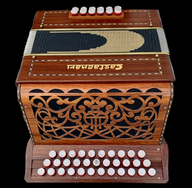
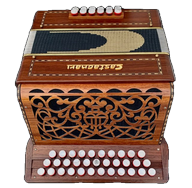
Benny Deploy → v5.7.1 - Fix label inversion bugs (normalization, crash)

diff --git a/benny-visualizer.html b/benny-visualizer.html
@@ -3,7 +3,7 @@
 <head>
 <meta charset="UTF-8">
 <meta name="viewport" content="width=device-width, initial-scale=1.0, user-scalable=no">
-<title>Castagnari Benny Accordion v5.7.0</title>
+<title>Castagnari Benny Accordion v5.7.1</title>
 <meta name="version" content="5.4">
 <meta name="description" content="Interactive learning tool for Castagnari Benny C/G (3-row, Heim tuning) – chords, scales, and bellows technique">
 <meta name="theme-color" content="#0a84ff">
@@ -362,7 +362,7 @@ header .sub { font-size:0.74em; color:var(--txt2); letter-spacing:1.2px; margin-
 <div class="container">
 
 <header>
-    <h1><img src="assets/icon-192x192.png" alt="" style="width:40px; height:40px; vertical-align:middle; margin-right:8px; border-radius:8px;">Castagnari Benny Accordion <span style="font-size:0.5em; color:#999; font-weight:300; margin-left:8px;">v5.7.0</span></h1>
+    <h1><img src="assets/icon-192x192.png" alt="" style="width:40px; height:40px; vertical-align:middle; margin-right:8px; border-radius:8px;">Castagnari Benny Accordion <span style="font-size:0.5em; color:#999; font-weight:300; margin-left:8px;">v5.7.1</span></h1>
     <p class="sub">C/G · 3-reihig · Heim · Spieler-Perspektive</p>
 </header>
 
@@ -481,7 +481,6 @@ header .sub { font-size:0.74em; color:var(--txt2); letter-spacing:1.2px; margin-
                             <option value="warm">Akkordeon-like</option>
                             <option value="pure">Rein (Sinus)</option>
                             <option value="bright">Hell</option>
-                            <option value="soft">Weich</option>
                         </select>
 
                         <label>Tempo:</label>
@@ -1076,7 +1075,12 @@ function bassToRoot(s){
 function getBennyNotes(direction) {
     const notes = new Set();
     Object.values(layout[direction].treble).forEach(row => {
-        row.forEach(btn => notes.add(pureName(btn)));
+        row.forEach(btn => {
+            const raw = pureName(btn);
+            // Normalize to uppercase for comparison with chordNotes (from SEMITONE_TO_NOTE)
+            const normalized = raw.charAt(0).toUpperCase() + raw.slice(1);
+            notes.add(normalized);
+        });
     });
     return notes;
 }
@@ -1202,9 +1206,13 @@ function applyStyles() {
     }
     
     // MODAL HIGHLIGHTING: Dim non-scale notes, highlight scale notes
+    // NOTE: treble buttons are now lowercase (c,g,bb...) but chordNotes/rootSet
+    // use uppercase (C,G,Bb...) from SEMITONE_TO_NOTE - normalize for comparison!
     document.querySelectorAll('.note-button').forEach(btn => {
         const note = btn.dataset.note;
-        const name = pureName(note);
+        const rawName = pureName(note);
+        // Normalize: uppercase first letter, keep accidentals (c→C, bb→Bb, f#→F#)
+        const name = rawName.charAt(0).toUpperCase() + rawName.slice(1);
         
         btn.classList.remove('active','root','scale-tone','dimmed');
         
@@ -1248,9 +1256,9 @@ function onBassClick(note) {
     const isChord = isUpper;   // UPPERCASE = chord, lowercase = single note
     
     // Groß (Akkord) → zeige Dur-Triade im Diskant
-    // Klein (Einzelton) → zeige nur Grundton im Diskant (leere Formel)
-    chordType = isUpper ? '' : null;
-    if(!isUpper) scaleType = null;
+    // Klein (Einzelton) → zeige nur Grundton (kein Akkord, kein Scale)
+    chordType = isUpper ? '' : '';  // immer '' - Dur als Default-Anzeige
+    scaleType = null;
     scaleType = null;
     
     // Update state and visuals WITHOUT auto-playing the treble chord

diff --git a/index.html b/index.html
@@ -3,7 +3,7 @@
 <head>
 <meta charset="UTF-8">
 <meta name="viewport" content="width=device-width, initial-scale=1.0, user-scalable=no">
-<title>Castagnari Benny Accordion v5.7.0</title>
+<title>Castagnari Benny Accordion v5.7.1</title>
 <meta name="version" content="5.4">
 <meta name="description" content="Interactive learning tool for Castagnari Benny C/G (3-row, Heim tuning) – chords, scales, and bellows technique">
 <meta name="theme-color" content="#0a84ff">
@@ -362,7 +362,7 @@ header .sub { font-size:0.74em; color:var(--txt2); letter-spacing:1.2px; margin-
 <div class="container">
 
 <header>
-    <h1><img src="assets/icon-192x192.png" alt="" style="width:40px; height:40px; vertical-align:middle; margin-right:8px; border-radius:8px;">Castagnari Benny Accordion <span style="font-size:0.5em; color:#999; font-weight:300; margin-left:8px;">v5.7.0</span></h1>
+    <h1><img src="assets/icon-192x192.png" alt="" style="width:40px; height:40px; vertical-align:middle; margin-right:8px; border-radius:8px;">Castagnari Benny Accordion <span style="font-size:0.5em; color:#999; font-weight:300; margin-left:8px;">v5.7.1</span></h1>
     <p class="sub">C/G · 3-reihig · Heim · Spieler-Perspektive</p>
 </header>
 
@@ -481,7 +481,6 @@ header .sub { font-size:0.74em; color:var(--txt2); letter-spacing:1.2px; margin-
                             <option value="warm">Akkordeon-like</option>
                             <option value="pure">Rein (Sinus)</option>
                             <option value="bright">Hell</option>
-                            <option value="soft">Weich</option>
                         </select>
 
                         <label>Tempo:</label>
@@ -1076,7 +1075,12 @@ function bassToRoot(s){
 function getBennyNotes(direction) {
     const notes = new Set();
     Object.values(layout[direction].treble).forEach(row => {
-        row.forEach(btn => notes.add(pureName(btn)));
+        row.forEach(btn => {
+            const raw = pureName(btn);
+            // Normalize to uppercase for comparison with chordNotes (from SEMITONE_TO_NOTE)
+            const normalized = raw.charAt(0).toUpperCase() + raw.slice(1);
+            notes.add(normalized);
+        });
     });
     return notes;
 }
@@ -1202,9 +1206,13 @@ function applyStyles() {
     }
     
     // MODAL HIGHLIGHTING: Dim non-scale notes, highlight scale notes
+    // NOTE: treble buttons are now lowercase (c,g,bb...) but chordNotes/rootSet
+    // use uppercase (C,G,Bb...) from SEMITONE_TO_NOTE - normalize for comparison!
     document.querySelectorAll('.note-button').forEach(btn => {
         const note = btn.dataset.note;
-        const name = pureName(note);
+        const rawName = pureName(note);
+        // Normalize: uppercase first letter, keep accidentals (c→C, bb→Bb, f#→F#)
+        const name = rawName.charAt(0).toUpperCase() + rawName.slice(1);
         
         btn.classList.remove('active','root','scale-tone','dimmed');
         
@@ -1248,9 +1256,9 @@ function onBassClick(note) {
     const isChord = isUpper;   // UPPERCASE = chord, lowercase = single note
     
     // Groß (Akkord) → zeige Dur-Triade im Diskant
-    // Klein (Einzelton) → zeige nur Grundton im Diskant (leere Formel)
-    chordType = isUpper ? '' : null;
-    if(!isUpper) scaleType = null;
+    // Klein (Einzelton) → zeige nur Grundton (kein Akkord, kein Scale)
+    chordType = isUpper ? '' : '';  // immer '' - Dur als Default-Anzeige
+    scaleType = null;
     scaleType = null;
     
     // Update state and visuals WITHOUT auto-playing the treble chord